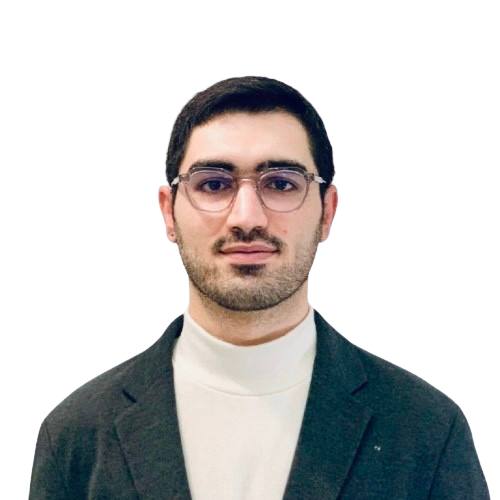
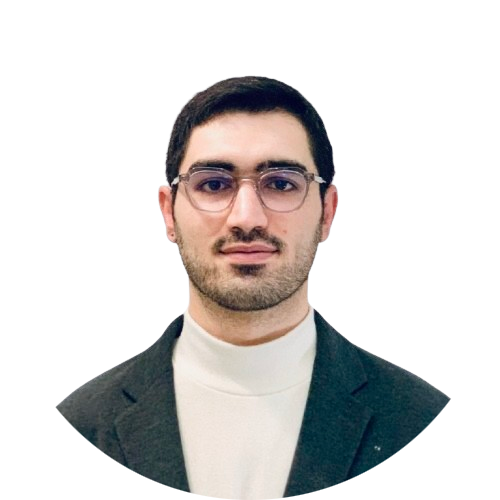
fixed photo and added test badge

Changed region(s): [[0.54, 0.78, 0.99, 1.0], [0.03, 0.81, 0.45, 1.0]]

diff --git a/index.md b/index.md
@@ -133,3 +133,6 @@ A full list is available on [Google Scholar](https://scholar.google.com/citation
 * [![Google Scholar](https://img.shields.io/badge/GoogleScholar-white?logo=googlescholar)](http://scholar.google.com/citations?user=IN72HckAAAAJ)
 * [![X](https://img.shields.io/badge/X-blue?logo=x)](https://x.com/HeritaMind)
 
+
+
+![Tests](https://github.com/heritai/heritai.github.io/actions/workflows/jekyll-gh-pages.yml/badge.svg)
